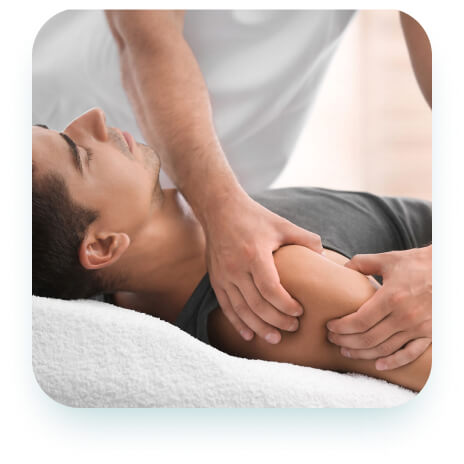
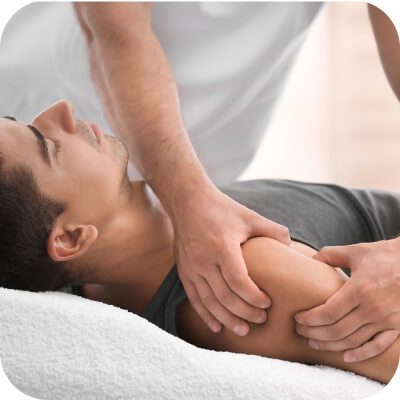
add img and outline

diff --git a/css/styles.css b/css/styles.css
@@ -4,7 +4,13 @@ bady{
   font-family: "Open Sans", "Open Sans Condensed","sans-serif";
 }
 
-
+*:focus{
+  outline-color: rgb(75, 9, 230);
+  outline-offset: 3px;
+  outline-width: 2px;
+  outline-style:dashed ;
+  ou
+}
 /* site-header */
 
 .site-header{
